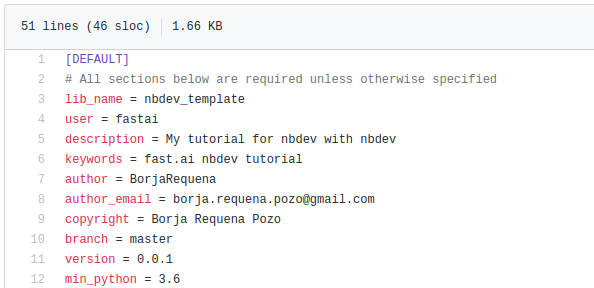
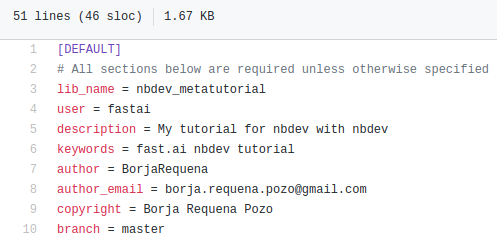
trying exports

diff --git a/docs/tutorial.html b/docs/tutorial.html
@@ -60,7 +60,7 @@ summary: "We do a walkthrough the nbdev tutorial so that we understand how it wo
 </div>
 <div class="cell border-box-sizing text_cell rendered"><div class="inner_cell">
 <div class="text_cell_render border-box-sizing rendered_html">
-<h3 id="Edit-settings.ini">Edit settings.ini<a class="anchor-link" href="#Edit-settings.ini">&#182;</a></h3><p>Edit the file directly in GitHub: uncomment and fill the first mandatory fields.</p>
+<h3 id="Edit-settings.ini">Edit settings.ini<a class="anchor-link" href="#Edit-settings.ini">&#182;</a></h3><p>Edit the file directly in GitHub: uncomment and fill the first mandatory fields. It is important that <strong>lib_name is the same as the repo</strong> to prevent problems afterwards with the docs.</p>
 <p>{% include image.html file="/nbdev_metatuto/images/edit_settingsini.png" %}</p>
 <p>Commit the changes with whatever message you feel like providing to yourself or the future collaborators of the repo.</p>
 
@@ -115,7 +115,7 @@ summary: "We do a walkthrough the nbdev tutorial so that we understand how it wo
     <span class="s2">&quot;Enthusiastically say hi to someone&quot;</span>
     <span class="k">return</span> <span class="n">f</span><span class="s1">&#39;Hii {to}!&#39;</span>
 </pre></div>
-<p>Since I put <code>#export</code> also in the tutorial, we can see this function right below.</p>
+<p>Since I put <code>#export</code> also in the tutorial, we can see the function documentation right below.</p>
 
 </div>
 </div>
@@ -146,7 +146,7 @@ summary: "We do a walkthrough the nbdev tutorial so that we understand how it wo
 </div>
 <div class="cell border-box-sizing text_cell rendered"><div class="inner_cell">
 <div class="text_cell_render border-box-sizing rendered_html">
-<p>Feel free to add a markdown description. The string will be the function descrption in the documentation.</p>
+<p>Feel free to add a markdown description too. The string in the source code becomes function descrption in the documentation, as you can see right above.</p>
 <p>We can also add tests. It is always good to have them in the documentations as they show new users what behavior they should expect. For that we will need to import <code>fastcore</code>. Since we don't want it to be included in the docs, we can just either put it in the previous cell with</p>
 <div class="highlight"><pre><span></span><span class="c1">#hide</span>
 <span class="kn">from</span> <span class="nn">nbdev.showdoc</span> <span class="kn">import</span> <span class="o">*</span>
@@ -246,7 +246,76 @@ docs/images/
 <div class="cell border-box-sizing text_cell rendered"><div class="inner_cell">
 <div class="text_cell_render border-box-sizing rendered_html">
 <h3 id="Continuous-integration-(CI)">Continuous integration (CI)<a class="anchor-link" href="#Continuous-integration-(CI)">&#182;</a></h3><p>Github will check that everything is okey. Edit <code>.github/workflows/main.yml</code> if you don't like it (I never tried).</p>
-<p>Go to the commits and see whether we had any issue building the docs. <strong>Spoiler alert</strong> we did. We always do. Click the cross to see what went wrong.</p>
+<p>Go to the commits and see whether we had any issue building the docs. <strong>Spoiler alert</strong> we did. We always do. Click the cross to see what went wrong. 
+{% include image.html file="/nbdev_metatuto/images/failed_push.png" %}</p>
+<p>The problem is that we did not specify the dependencies of our library in <code>settings.ini</code>. Add the library names with space separations:</p>
+<div class="highlight"><pre><span></span><span class="c1"># Optional. Same format as setuptools requirements</span>
+<span class="n">requirements</span> <span class="o">=</span> <span class="n">fastcore</span>
+<span class="c1"># Optional. Same format as setuptools console_scripts</span>
+<span class="c1"># console_scripts =</span>
+</pre></div>
+<p>Commit and push again!</p>
+<p>{% include image.html file="/nbdev_metatuto/images/successful_push.png" %}</p>
+<p>GREAT!</p>
+
+</div>
+</div>
+</div>
+<div class="cell border-box-sizing text_cell rendered"><div class="inner_cell">
+<div class="text_cell_render border-box-sizing rendered_html">
+<h3 id="View-docs">View docs<a class="anchor-link" href="#View-docs">&#182;</a></h3><p>Have a look at the docs clicking on the link that we generated at the beginning!</p>
+<p>{% include image.html file="/nbdev_metatuto/images/first_doc.png" %}</p>
+
+</div>
+</div>
+</div>
+<div class="cell border-box-sizing text_cell rendered"><div class="inner_cell">
+<div class="text_cell_render border-box-sizing rendered_html">
+<h2 id="Classes">Classes<a class="anchor-link" href="#Classes">&#182;</a></h2><p>Add a class to <code>00_core.ipynb</code> like:</p>
+
+</div>
+</div>
+</div>
+<div class="cell border-box-sizing code_cell rendered">
+<div class="input">
+
+<div class="inner_cell">
+    <div class="input_area">
+<div class=" highlight hl-ipython3"><pre><span></span><span class="k">class</span> <span class="nc">SoothSayer</span><span class="p">:</span>
+    <span class="s2">&quot;Yell hi at someone until they are annoyed enough to either reply or flee&quot;</span>
+    <span class="k">def</span> <span class="nf">__init__</span><span class="p">(</span><span class="bp">self</span><span class="p">,</span><span class="n">to</span><span class="p">):</span> <span class="bp">self</span><span class="o">.</span><span class="n">to</span> <span class="o">=</span> <span class="n">to</span>
+    <span class="k">def</span> <span class="nf">say</span><span class="p">(</span><span class="bp">self</span><span class="p">):</span> <span class="n">say_hi</span><span class="p">(</span><span class="bp">self</span><span class="o">.</span><span class="n">to</span><span class="p">)</span>
+</pre></div>
+
+    </div>
+</div>
+</div>
+
+</div>
+<div class="cell border-box-sizing code_cell rendered">
+
+<div class="output_wrapper">
+<div class="output">
+
+<div class="output_area">
+
+
+<div class="output_markdown rendered_html output_subarea ">
+<h2 id="SoothSayer" class="doc_header"><code>class</code> <code>SoothSayer</code><a href="https://github.com/fastai/nbdev_metatuto/tree/master/nbdev_metatuto/tutorial.py#L11" class="source_link" style="float:right">[source]</a></h2><blockquote><p><code>SoothSayer</code>(<strong><code>to</code></strong>)</p>
+</blockquote>
+<p>Yell hi at someone until they are annoyed enough to either reply or flee</p>
+
+</div>
+
+</div>
+
+</div>
+</div>
+
+</div>
+<div class="cell border-box-sizing text_cell rendered"><div class="inner_cell">
+<div class="text_cell_render border-box-sizing rendered_html">
+<p>Notice that this time we can see the source code because I included <code>#exports</code>. Now the method documentation does not appear</p>
 
 </div>
 </div>

diff --git a/docs/core.html b/docs/core.html
@@ -88,6 +88,22 @@ summary: "The goddamn nbdev tuto following"
 </div>
 
 </div>
+<div class="cell border-box-sizing code_cell rendered">
+<div class="input">
+
+<div class="inner_cell">
+    <div class="input_area">
+<div class=" highlight hl-ipython3"><pre><span></span><span class="k">class</span> <span class="nc">SoothSayer</span><span class="p">:</span>
+    <span class="s2">&quot;Yell hi at someone until they are annoyed enough to either reply or flee&quot;</span>
+    <span class="k">def</span> <span class="nf">__init__</span><span class="p">(</span><span class="bp">self</span><span class="p">,</span><span class="n">to</span><span class="p">):</span> <span class="bp">self</span><span class="o">.</span><span class="n">to</span> <span class="o">=</span> <span class="n">to</span>
+    <span class="k">def</span> <span class="nf">say</span><span class="p">(</span><span class="bp">self</span><span class="p">):</span> <span class="n">say_hi</span><span class="p">(</span><span class="bp">self</span><span class="o">.</span><span class="n">to</span><span class="p">)</span>
+</pre></div>
+
+    </div>
+</div>
+</div>
+
+</div>
 </div>
  
 

diff --git a/README.md b/README.md
@@ -12,7 +12,7 @@ This is mainly for me to not fuck up during my live tutorial and get familiar wi
 
 We can't really screw anything up. There is only one function so far:
 
-```python
+```
 say_hi("Bitz")
 ```
 
